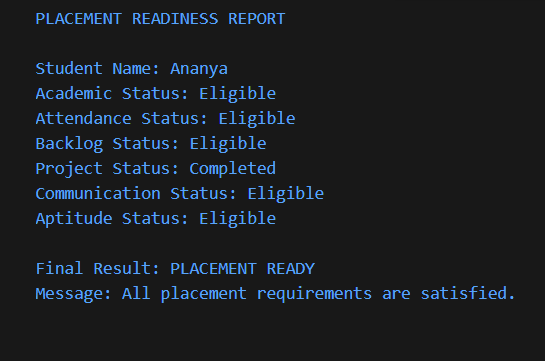
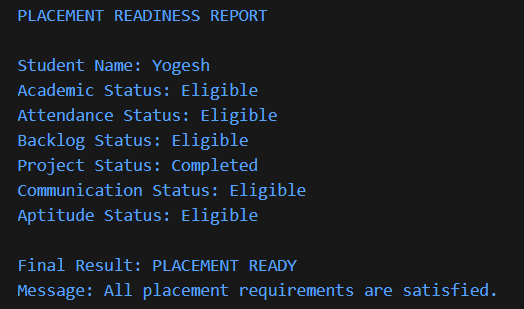
Main File Modified

diff --git a/Weekly-Coding-Practice-Tracker/src/Main.java b/Weekly-Coding-Practice-Tracker/src/Main.java
@@ -1,77 +1,103 @@
 public class Main {
-public static void main(String[] args){
-String StudentName = "Ananya";
-float AcademicPercentage = 72.5f;
-float AttendancePercentage = 81f;
-int ActiveBacklogs = 0;
-boolean ProjectCompleted = true; 
-double CommunicationScore = 68d;
-double AptitudeScore = 74d;
+    public static void main(String[] args) {
+        int student = 1;
+        while (student <= 2) {
 
-boolean AcademicEligible = AcademicPercentage >= 60;
-boolean AttendanceEligible = AttendancePercentage >= 75;
-boolean BacklogEligible = ActiveBacklogs == 0;
-boolean ProjectEligible = ProjectCompleted;
-boolean CommunicationEligible = CommunicationScore >= 60;
-boolean AptitudeEligible = AptitudeScore >= 60;
+            String StudentName;
+            float AcademicPercentage;
+            float AttendancePercentage;
+            int ActiveBacklogs;
+            boolean ProjectCompleted;
+            double CommunicationScore;
+            double AptitudeScore;
 
-boolean   ApplicationEligible = AcademicEligible && AttendanceEligible && BacklogEligible  && ProjectEligible && CommunicationEligible && AptitudeEligible;
+            if (student == 1) 
+            {
+                StudentName = "Yogesh";
+                AcademicPercentage = 78.5f;
+                AttendancePercentage = 85f;
+                ActiveBacklogs = 0;
+                ProjectCompleted = true;
+                CommunicationScore = 70d;
+                AptitudeScore = 90d;
+            } 
+            else 
+            {
+                StudentName = "Arun";
+                AcademicPercentage = 72.5f;
+                AttendancePercentage = 72f;
+                ActiveBacklogs = 2;
+                ProjectCompleted = false;
+                CommunicationScore = 68d;
+                AptitudeScore = 55d;
+            }
 
-System.out.println("PLACEMENT READINESS REPORT");
-System.out.println("");
-System.out.println("Student Name: "+StudentName);
-System.out.println("Academic Status: " + (AcademicEligible ? "Eligible" : "Not Eligible"));
-System.out.println("Attendance Status: " + (AttendanceEligible ? "Eligible" : "Not Eligible"));
-System.out.println("Backlog Status: " + (BacklogEligible ? "Eligible" : "Not Eligible"));
-System.out.println("Project Status: " + (ProjectEligible ? "Completed" : "Not Completed"));
-System.out.println("Communication Status: " + (CommunicationEligible ? "Eligible" : "Not Eligible"));
-System.out.println("Aptitude Status: " + (AptitudeEligible ? "Eligible" : "Needs Improvement"));
-System.out.println("");
-if(ApplicationEligible) 
-    {
-    System.out.println("Final Result: PLACEMENT READY");
-    System.out.println("Message: All placement requirements are satisfied.");
+            boolean AcademicEligible = AcademicPercentage >= 60;
+            boolean AttendanceEligible = AttendancePercentage >= 75;
+            boolean BacklogEligible = ActiveBacklogs == 0;
+            boolean ProjectEligible = ProjectCompleted;
+            boolean CommunicationEligible = CommunicationScore >= 60;
+            boolean AptitudeEligible = AptitudeScore >= 60;
+
+            boolean ApplicationEligible = AcademicEligible && AttendanceEligible && BacklogEligible && ProjectEligible && CommunicationEligible && AptitudeEligible;
+
+            System.out.println("\nPLACEMENT READINESS REPORT");
+            System.out.println("");
+            System.out.println("Student Name: " +StudentName);
+            System.out.println("Academic Status: " +(AcademicEligible ? "Eligible" : "Not Eligible"));
+            System.out.println("Attendance Status: " +(AttendanceEligible ? "Eligible" : "Not Eligible"));
+            System.out.println("Backlog Status: " +(BacklogEligible ? "Eligible" : "Not Eligible"));
+            System.out.println("Project Status: " +(ProjectEligible ? "Completed" : "Not Completed"));
+            System.out.println("Communication Status: " +(CommunicationEligible ? "Eligible" : "Not Eligible"));
+            System.out.println("Aptitude Status: " +(AptitudeEligible ? "Eligible" : "Needs Improvement"));
+            System.out.println("");
+            if (ApplicationEligible) 
+            {
+                System.out.println("Final Result: PLACEMENT READY");
+                System.out.println("Message: All placement requirements are satisfied.");
+            }
+
+            if (!ApplicationEligible)
+
+            {
+                System.out.println("Final Result: NOT PLACEMENT READY");
+                System.out.println("");
+                System.out.println("Areas to Improve:");
+            }
+
+            if (!AcademicEligible) 
+            {
+                System.out.println("Academic Percentage");
+            }
+
+            if (!AttendanceEligible) 
+            {
+                System.out.println("Attendance");
+            }
+
+            if (!BacklogEligible) 
+            {
+                System.out.println("Clear Active Backlogs");
+            }
+
+            if (!ProjectEligible) 
+            {
+                System.out.println("Project Completion");
+            }
+
+            if (!CommunicationEligible) 
+            {
+                System.out.println("Communication Score");
+            }
+
+            if (!AptitudeEligible) 
+            {
+                System.out.println("Aptitude Score");
+            }
+            student++;
+
+        }
+
     }
 
-if (!ApplicationEligible) 
-    {
-    System.out.println("Final Result: NOT PLACEMENT READY");
-    System.out.println("");
-    System.out.println("Areas to Improve:");
-    }
-
-if (!AcademicEligible) 
-    {
-    System.out.println("Academic Percentage");
-    }
-
-if (!AttendanceEligible) 
-    {
-    System.out.println("Attendance");
-    }
-
-if (!BacklogEligible) 
-    {
-    System.out.println("Backlogs");
-    }
-
-if (!ProjectEligible) 
-    {
-    System.out.println("Project Completion");
-    }
-
-if (!CommunicationEligible) 
-    {
-    System.out.println("Communication Score");
-    }
-
-if (!AptitudeEligible) 
-    {
-    System.out.println("Aptitude Score");
-    }
 }
-
-}
-
-    
-

diff --git a/README.md b/README.md
@@ -1,4 +1,3 @@
-<<<<<<< HEAD
 Student Name:J.Yogeshwaran
 Email:yogeshwaran15082005@gmail.com
 Team Number:4
@@ -8,6 +7,6 @@ Project Title:Placement Readiness Evaluator
 Repository URL:https://github.com/YogeshwaranJayaraman/Second-PRD
 Submission Time:06:30 PM
 Submission Status:Completed
-=======
 
->>>>>>> 909bd0785c9650c134f24e6a8031f1f91fdee1ca
+
+

diff --git a/Weekly-Coding-Practice-Tracker/requirement/requirement.md b/Weekly-Coding-Practice-Tracker/requirement/requirement.md
@@ -1,10 +1,6 @@
-<<<<<<< HEAD
 Student Name:J.Yogeshwaran
 Email:yogeshwaran15082005@gamil.com
 Team Number:4
 GitHub Username:https://github.com/YogeshwaranJayaraman
 Assigned Requirement Number:1
 Project Title: Placement Readiness Evaluator
-=======
-
->>>>>>> 909bd0785c9650c134f24e6a8031f1f91fdee1ca
